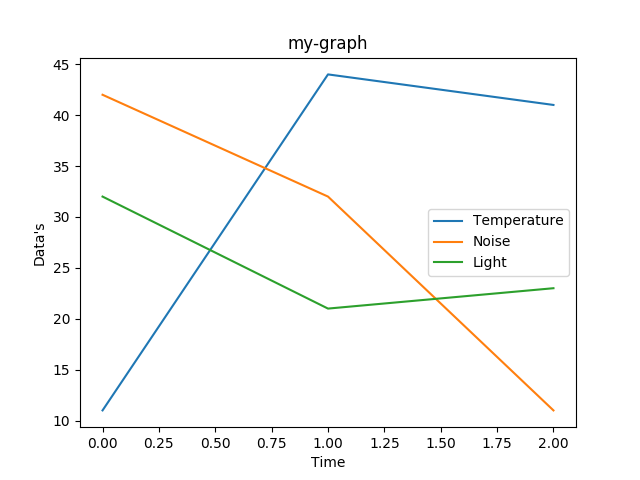
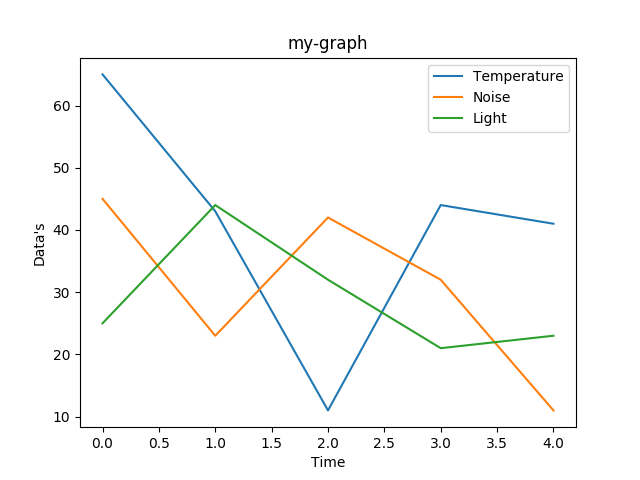
fixed bug

diff --git a/templates/base.html b/templates/base.html
@@ -32,7 +32,7 @@
             <a class="nav-link active" href='{% url "home" %}'>Home</a>
             <a class="nav-link" href='{% url "detail" %}'>Detail</a>
             <a class="nav-link" href='{% url "form" %}'>Contact</a>
-              {% if not request.user.is_authenticated %}
+              {% if request.user.is_authenticated %}
               <a class="nav-link" href='{% url "login" %}'>Log in</a>
               {% else %}
               <a class="nav-link" href='{% url "logout" %}'>Log out </a>

diff --git a/templates/graphics/detail.html b/templates/graphics/detail.html
@@ -28,6 +28,11 @@
         <b>
             <font color="aqua">
                 Your home is in good condition.Thank you for your trust in us.
+                {% if pic %}
+                <li class="{{ message.tags }}">{{ pic }}</li>
+                {% endif %}
+
+
             </font>
         </b>
     </p>

diff --git a/graphics/views.py b/graphics/views.py
@@ -37,16 +37,18 @@ def graphic_view(request):
 
 
 def detail_view(request):
-    from .models import Data,User
-
+    from .models import Data, User
+    from django.contrib import messages
     import matplotlib.pyplot as plt
-
-   #  my_user = User.objects.all().get(username = request.user.username).id
-    if request.user.is_authenticated():
+    import os
+    # my_user = User.objects.all().get(username = request.user.username).id
+    os.chdir("./graphics/static")
+    context={}
+    if "my_figure.png" in os.listdir():
         y_temperature = list(Data.objects.values_list("temperature").filter(user_id=3).order_by("-id")[:])
         y_noise = list(Data.objects.values_list("noise").filter(user_id=3).order_by("-id")[:])
         y_light = list(Data.objects.values_list("light").filter(user_id=3).order_by("-id")[:])
-        # x_time = Data.objects.values_list("datetime").filter(user_id=2).order_by("-id")[:]
+        # x_time = list(Data.objects.values_list("date").filter(user_id=3).order_by("-id")[:])
         y_temperature_end = list()
         y_noise_end = list()
         y_light_end = list()
@@ -59,33 +61,73 @@ def detail_view(request):
         for y_l in y_light:
             for n in y_l:
                 y_light_end.append(n)
-        x = [0, 1,2]
         fig = plt.figure()
         ax = plt.subplot(111)
         ax2 = plt.subplot(111)
         ax3 = plt.subplot(111)
-
+        x = [0, 1, 2, 3, 4]
         ax.plot(x, y_temperature_end, label="Temperature")
         ax2.plot(x, y_noise_end, label="Noise")
         ax3.plot(x, y_light_end, label="Light")
-
         plt.xlabel("Time")
         plt.ylabel("Data's")
         plt.title("my-graph")
-
         ax.legend()
         ax2.legend()
         ax3.legend()
 
-        fig.savefig("./graphics/static/my_figure.png")
-        context = {
-            "pic": "User"
-        }
-    else:
+        fig.savefig("./my_figure2.png")
+        a = os.stat('./my_figure.png')
+        a2 = os.stat("./my_figure2.png")
 
-        context = {
-            "pic": "Guest"
-        }
+        if a.st_size == a2.st_size:
+            os.remove("./my_figure2.png")
+        fig.clear()
+        plt.close()
+    else:
+        y_temperature = list(Data.objects.values_list("temperature").filter(user_id=3).order_by("-id")[:])
+        y_noise = list(Data.objects.values_list("noise").filter(user_id=3).order_by("-id")[:])
+        y_light = list(Data.objects.values_list("light").filter(user_id=3).order_by("-id")[:])
+        # x_time = list(Data.objects.values_list("date").filter(user_id=3).order_by("-id")[:])
+        y_temperature_end = list()
+        y_noise_end = list()
+        y_light_end = list()
+        for y_t in y_temperature:
+            for x in y_t:
+                y_temperature_end.append(x)
+        for y_n in y_noise:
+            for i in y_n:
+                y_noise_end.append(i)
+        for y_l in y_light:
+            for n in y_l:
+                y_light_end.append(n)
+        fig = plt.figure()
+        ax = plt.subplot(111)
+        ax2 = plt.subplot(111)
+        ax3 = plt.subplot(111)
+        x = [0, 1, 2, 3, 4]
+        ax.plot(x, y_temperature_end, label="Temperature")
+        ax2.plot(x, y_noise_end, label="Noise")
+        ax3.plot(x, y_light_end, label="Light")
+        plt.xlabel("Time")
+        plt.ylabel("Data's")
+        plt.title("my-graph")
+        ax.legend()
+        ax2.legend()
+        ax3.legend()
+
+        fig.savefig("./my_figure.png")
+
+    os.chdir("..")
+    os.chdir("..")
+
+    for q in range(len(y_temperature)):
+        if y_temperature[q][0] > 60:
+            context = {
+                "pic": "Danger"
+            }
+            messages.warning(request, "YOUR HOME IN FIRE!!!")
+            break
 
     return render(request, 'graphics/detail.html', context)
 
@@ -121,5 +163,4 @@ def user_form(request):
 def login_view(request):
 
     return render(request, "login.html",{})
-
 
